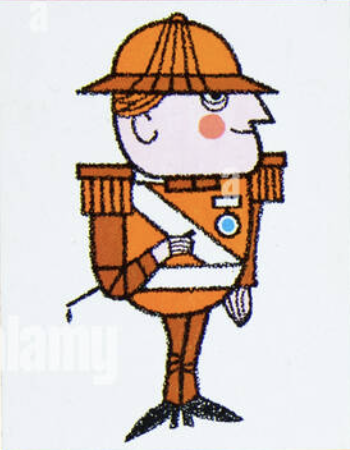
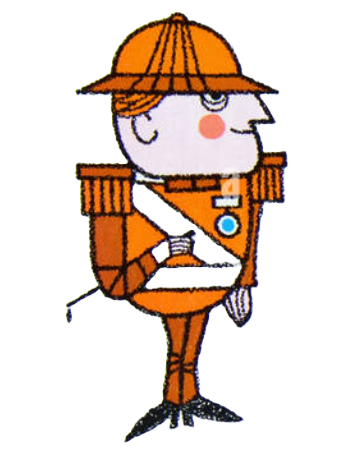
remove black rectangle on token and change the png to transparent

diff --git a/clueless/client/Client_game_board.py b/clueless/client/Client_game_board.py
@@ -304,10 +304,9 @@ class Client_game_board:
         # Initialize token positions for chosen tokens
         for token in chosen_tokens:
             token_surface = pygame.Surface((100, 100))
-            token_image = pygame.image.load(f'{data_folder / token_info_dict[token][0]}.PNG').convert_alpha()
+            token_image = pygame.image.load(f'{data_folder / token_info_dict[token][0]}.png').convert_alpha()
             token_image = pygame.transform.scale(token_image, (80, 80))
             
-            pygame.draw.rect(token_image, 'BLACK', pygame.Rect(0, 0, 100, 100), 1)
             token_rect = (token_info_dict[token][1], token_info_dict[token][2], 100, 100)
             screen.blit(token_image, token_rect) 
             
